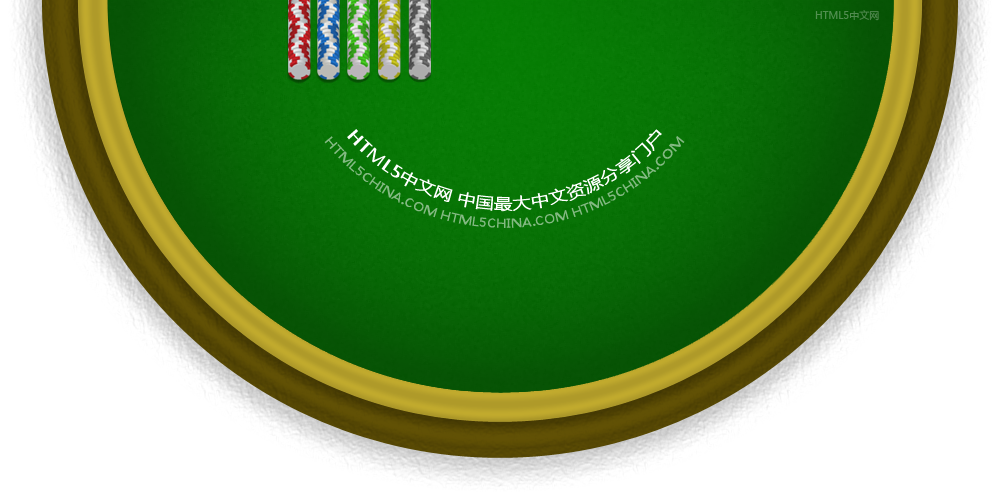
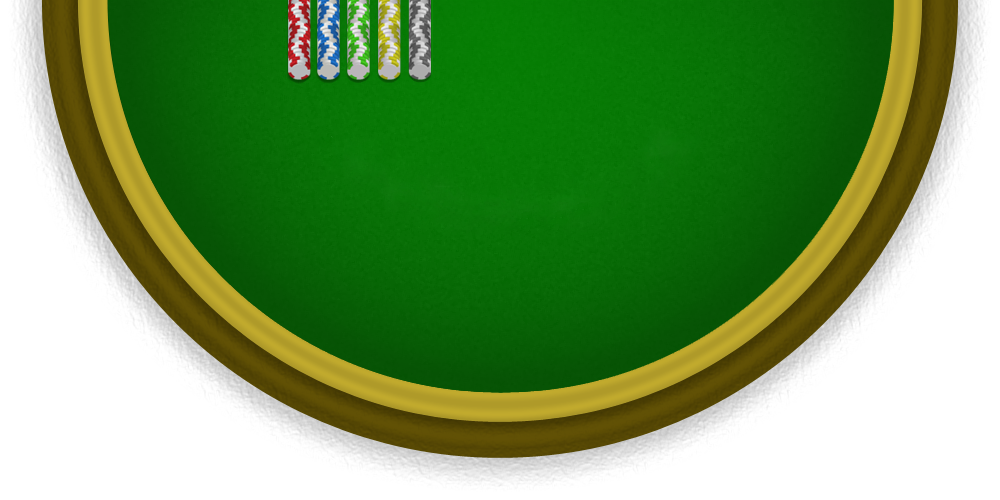
更新代码。

Changed region(s): [[0.31, 0.27, 0.682, 0.45], [0.837, 0.0, 0.868, 0.06]]

diff --git a/index.htm b/index.htm
@@ -74,9 +74,9 @@ a, a:link, a:visited{
     <div id="Message"> 
     
     </div> 
-    <div id="Logo"> 
+<!--    <div id="Logo"> -->
     
     </div>
-    <div class="cyr">本游戏收集于网络，病进行了一定的无障碍优化。</div>
+    <div class="cyr">本游戏收集于网络，并进行了一定的无障碍优化。</div>
 </div> 
 </BODY></HTML>
